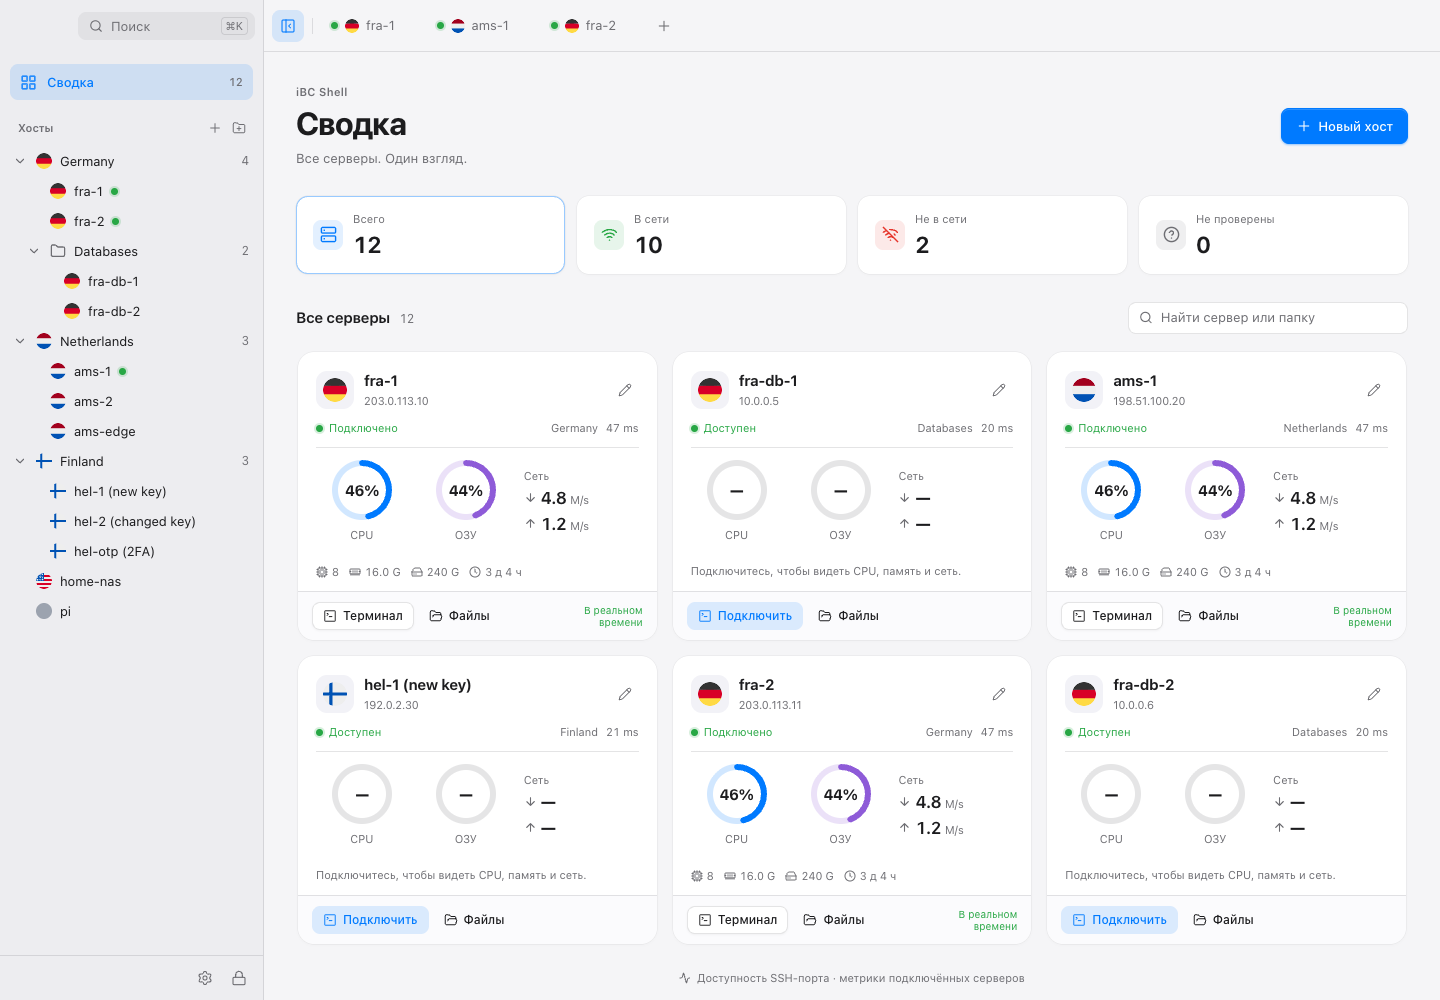
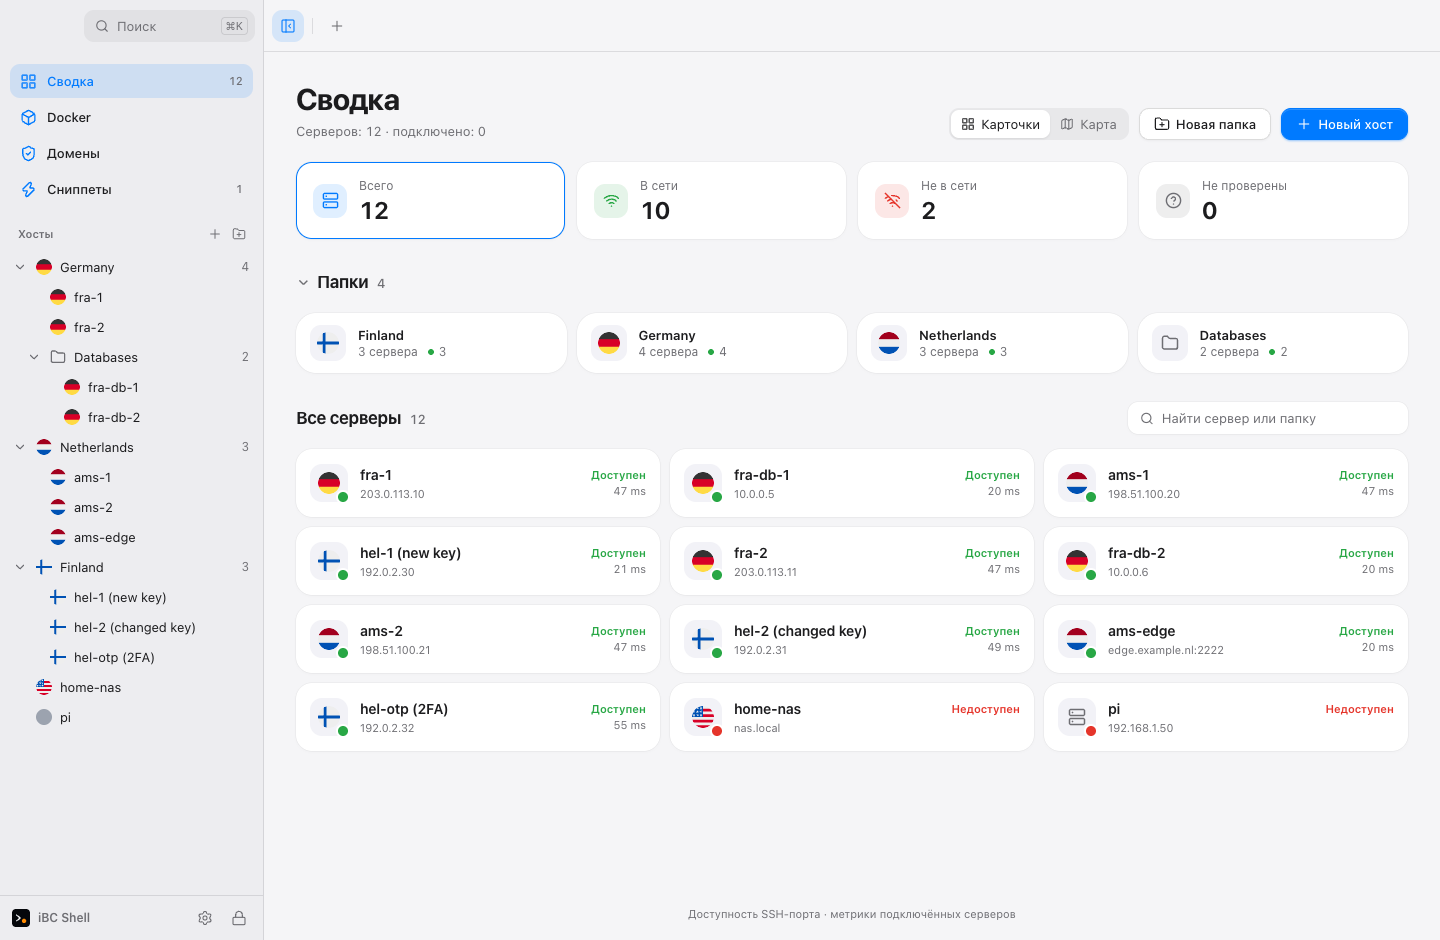
Защита окна от переходов на чужие страницы, урезанные права событий, лицензия MIT, свежие скриншоты и описание новых функций в README

diff --git a/src-tauri/src/window.rs b/src-tauri/src/window.rs
@@ -1,0 +1,60 @@
+//! The main window, created in code so it can be locked to the app's own pages.
+//!
+//! A compromised page (or a link in remote data that slipped through) must not be able to
+//! navigate the webview to a foreign site, where the IPC bridge would then be reachable, nor
+//! open extra windows. Foreign links go through the UI's confirmation and the system browser.
+
+use tauri::webview::WebviewWindowBuilder;
+use tauri::Url;
+
+/// True for the pages the bundled UI is served from (and the dev server in `tauri dev`).
+fn is_app_page(url: &Url) -> bool {
+    match url.scheme() {
+        "tauri" => true,
+        "http" | "https" => {
+            let host = url.host_str();
+            host == Some("tauri.localhost") || (cfg!(dev) && host == Some("localhost"))
+        }
+        _ => false,
+    }
+}
+
+/// Builds the window described in `tauri.conf.json` (`"create": false`) with the guards.
+pub fn create_main(app: &tauri::App) -> Result<(), Box<dyn std::error::Error>> {
+    let Some(cfg) = app
+        .config()
+        .app
+        .windows
+        .iter()
+        .find(|w| w.label == "main")
+        .cloned()
+    else {
+        return Err("main window is not configured".into());
+    };
+    let builder = WebviewWindowBuilder::from_config(app.handle(), &cfg)?
+        .on_navigation(is_app_page);
+    #[cfg(desktop)]
+    let builder = builder.on_new_window(|_, _| tauri::webview::NewWindowResponse::Deny);
+    builder.build()?;
+    Ok(())
+}
+
+#[cfg(test)]
+mod tests {
+    use super::*;
+
+    fn ok(s: &str) -> bool {
+        is_app_page(&Url::parse(s).unwrap())
+    }
+
+    #[test]
+    fn only_own_pages() {
+        assert!(ok("tauri://localhost/index.html"));
+        assert!(ok("http://tauri.localhost/"));
+        assert!(!ok("https://example.com/"));
+        assert!(!ok("http://tauri.localhost.evil.com/"));
+        assert!(!ok("file:///etc/passwd"));
+        assert!(!ok("javascript:alert(1)"));
+        assert!(!ok("data:text/html,x"));
+    }
+}

diff --git a/src-tauri/src/lib.rs b/src-tauri/src/lib.rs
@@ -19,6 +19,7 @@ pub mod tray;
 #[cfg(not(desktop))]
 #[path = "tray_stub.rs"]
 pub mod tray;
+pub mod window;
 
 /// Opens the store in the app data dir and builds [`state::AppState`].
 fn init_state(app: &tauri::AppHandle) -> Result<state::AppState, Box<dyn std::error::Error>> {
@@ -29,11 +30,27 @@ fn init_state(app: &tauri::AppHandle) -> Result<state::AppState, Box<dyn std::er
     Ok(state::AppState::new(store, vault))
 }
 
+/// Release builds drop the panic message (it could carry data from a secret-handling frame);
+/// the location stays for diagnosis. Debug builds keep the default hook.
+fn install_panic_hook() {
+    if cfg!(debug_assertions) {
+        return;
+    }
+    std::panic::set_hook(Box::new(|info| {
+        if let Some(loc) = info.location() {
+            eprintln!("ibc-shell panicked at {}:{}", loc.file(), loc.line());
+        } else {
+            eprintln!("ibc-shell panicked");
+        }
+    }));
+}
+
 /// Builds and runs the Tauri application.
 ///
 /// # Panics
 /// Tauri aborts the process if the runtime cannot start.
 pub fn run() {
+    install_panic_hook();
     let specta = api::builder();
     let typed = specta.invoke_handler();
     let raw: Box<dyn Fn(tauri::ipc::Invoke<tauri::Wry>) -> bool + Send + Sync> =
@@ -61,6 +78,7 @@ pub fn run() {
             autolock::apply_from_store(&st.store, &st.vault);
             autolock::spawn_sweeper(app.handle().clone(), st.vault.clone());
             app.manage(st);
+            window::create_main(app)?;
             Ok(())
         })
         .run(tauri::generate_context!());

diff --git a/crates/ssh/src/docker.rs b/crates/ssh/src/docker.rs
@@ -172,7 +172,8 @@ fn clean_log(s: &str) -> String {
                 let mut params = String::new();
                 for d in chars.by_ref() {
                     if ('@'..='~').contains(&d) {
-                        let sgr = d == 'm' && params.chars().all(|p| p.is_ascii_digit() || p == ';');
+                        let sgr =
+                            d == 'm' && params.chars().all(|p| p.is_ascii_digit() || p == ';');
                         if sgr && params.len() <= 32 {
                             out.push_str("\u{1b}[");
                             out.push_str(&params);
@@ -338,7 +339,10 @@ mod tests {
         assert!(valid_id("a1b2c3d4e5f6"));
         assert!(!valid_id("web; rm -rf /"));
         assert!(!valid_id("abc"));
-        assert_eq!(clean_log("\u{1b}[31mred\u{1b}[0m ok\r\n"), "\u{1b}[31mred\u{1b}[0m ok\n");
+        assert_eq!(
+            clean_log("\u{1b}[31mred\u{1b}[0m ok\r\n"),
+            "\u{1b}[31mred\u{1b}[0m ok\n"
+        );
         assert_eq!(clean_log("\u{1b}[2Jx\u{1b}]0;t\u{7}y"), "x]0;ty");
         assert_eq!(size("1.5KiB"), Some(1536));
     }

diff --git a/src-tauri/src/commands/identity.rs b/src-tauri/src/commands/identity.rs
@@ -168,8 +168,10 @@ fn import_from_path(
     if bytes.len() > MAX_KEY_FILE {
         return Err(ApiError::Validation("key file too large".into()));
     }
-    let pem = String::from_utf8(bytes.to_vec())
-        .map_err(|_| ApiError::Validation("invalid key".into()))?;
+    // `from_utf8` on the borrowed bytes: a failure leaves no unzeroized copy behind.
+    let pem = std::str::from_utf8(&bytes)
+        .map_err(|_| ApiError::Validation("invalid key".into()))?
+        .to_owned();
     let label = path
         .file_name()
         .map_or_else(|| "key".to_owned(), |n| n.to_string_lossy().into_owned());

diff --git a/src-tauri/src/api/dto.rs b/src-tauri/src/api/dto.rs
@@ -4,8 +4,8 @@
 pub use crate::tray::{TrayItem, TrayMenu};
 use ibc_shell_sftp::{ConflictPolicy, TransferId};
 pub use ibc_shell_ssh::{
-    CertInfo, CertReport, Container, CoreSplit, DockerAccess, DockerAction, DockerReport, HostStats, Listener,
-    NetIface, PeerFlow, ProcRow,
+    CertInfo, CertReport, Container, CoreSplit, DockerAccess, DockerAction, DockerReport,
+    HostStats, Listener, NetIface, PeerFlow, ProcRow,
 };
 use ibc_shell_ssh::{ConnectStep, ForwardState, HostKeyInfo, KbdPrompt};
 use ibc_shell_store::{ForwardId, HostId, IdentityId, IdentityKind};

diff --git a/crates/sftp/src/remote.rs b/crates/sftp/src/remote.rs
@@ -46,7 +46,14 @@ pub(crate) fn map_err(e: &CErr) -> SftpError {
                 SftpError::Protocol(format!("{c}: {msg}"))
             }
         },
-        other => SftpError::Protocol(other.to_string().chars().take(160).collect()),
+        other => SftpError::Protocol(
+            other
+                .to_string()
+                .chars()
+                .filter(|c| !c.is_control())
+                .take(160)
+                .collect(),
+        ),
     }
 }
 

diff --git a/README.en.md b/README.en.md
@@ -32,19 +32,59 @@ Nested folders, country flags, a terminal that stays out of your way, and secret
   <img src="docs/brand/screenshots/overview-light.png" alt="iBC Shell — Overview" width="1440">
 </picture>
 
+Overview: folders, server availability, search.
+
+<picture>
+  <source media="(prefers-color-scheme: dark)" srcset="docs/brand/screenshots/status-dark.png">
+  <img src="docs/brand/screenshots/status-light.png" alt="iBC Shell — Server status" width="1440">
+</picture>
+
+Server status: per-core CPU, memory, disk, network, connections.
+
+<picture>
+  <source media="(prefers-color-scheme: dark)" srcset="docs/brand/screenshots/docker-dark.png">
+  <img src="docs/brand/screenshots/docker-light.png" alt="iBC Shell — Docker" width="1440">
+</picture>
+
+Docker across all connected servers: state, ports, load, start, stop, restart.
+
+<picture>
+  <source media="(prefers-color-scheme: dark)" srcset="docs/brand/screenshots/logs-dark.png">
+  <img src="docs/brand/screenshots/logs-light.png" alt="iBC Shell — Container logs" width="1440">
+</picture>
+
+Container logs in their own colours, with wrapped lines.
+
+<picture>
+  <source media="(prefers-color-scheme: dark)" srcset="docs/brand/screenshots/domains-dark.png">
+  <img src="docs/brand/screenshots/domains-light.png" alt="iBC Shell — Domains" width="1440">
+</picture>
+
+SSL certificate expiry for the domains on every server.
+
 Demo mode: sample servers and metrics.
+
+## What's new
+
+- **Docker.** A server's containers with state, ports and load; start, stop and restart (stop and restart ask first); logs. The Docker tab shows every connected server at once.
+- **SSL certificates.** Finds Let's Encrypt, nginx, Apache and Caddy certificates, shows expiry and warns ahead. The Domains tab gathers them from all servers.
+- **macOS menu-bar icon.** A short summary of your servers, one click to jump to a server. Can be turned off in settings.
+- **Per-core CPU load** split into user, system, nice, iowait and steal.
+- **Snippets without opening a server.** A tab of their own, run on one or several servers.
+- **Folders on the overview**, a folder filter, connect a whole folder.
+- **Everything over the SSH connection that is already open.** Nothing is installed on the server and no ports are opened.
 
 ## Download
 
 Installers are on the [Releases page](https://github.com/dramaformama/ibc-shell/releases/latest), with a `SHA256SUMS.txt` next to them to verify the download.
 
-| Platform             | File                         | State             |
-| -------------------- | ---------------------------- | ----------------- |
-| macOS, Apple Silicon | `iBC Shell_…_aarch64.dmg`    | built in CI       |
-| macOS, Intel         | `iBC Shell_…_x64.dmg`        | built in CI       |
-| Windows 10/11        | `iBC Shell_…_x64-setup.exe`  | built in CI       |
-| Linux                | `.AppImage` and `.deb`       | built in CI       |
-| iOS, Android         | —                            | planned (Phase 4) |
+| Platform             | File                        | State             |
+| -------------------- | --------------------------- | ----------------- |
+| macOS, Apple Silicon | `iBC Shell_…_aarch64.dmg`   | built in CI       |
+| macOS, Intel         | `iBC Shell_…_x64.dmg`       | built in CI       |
+| Windows 10/11        | `iBC Shell_…_x64-setup.exe` | built in CI       |
+| Linux                | `.AppImage` and `.deb`      | built in CI       |
+| iOS, Android         | —                           | planned (Phase 4) |
 
 The builds are not signed with a paid certificate, so the system warns on first launch. That is expected; check the sum from `SHA256SUMS.txt`.
 
@@ -56,16 +96,17 @@ A release is made by a tag: `git tag v0.1.0 && git push origin v0.1.0`. The [wor
 
 ## What works today
 
-| Area                                                                              | State                                      |
-| --------------------------------------------------------------------------------- | ------------------------------------------ |
-| Encrypted vault (Argon2id + XChaCha20-Poly1305), host store, folder tree          | done, tested                               |
-| SSH client: password, key, keyboard-interactive, host-key checks, jump hosts      | done, tested against real OpenSSH          |
-| SFTP engine: queue, resume, pause, conflict policies, remote-to-remote            | done, tested                               |
-| Terminal UI (xterm.js tabs, search, paste safety)                                 | done, not yet run against the real backend |
-| SFTP UI (two panes, transfer queue)                                               | done, not yet run against the real backend |
-| App shell wiring (Tauri commands)                                                 | in progress                                |
-| Port forwarding, `ssh_config` import, key manager, split panes, snippets, backups | planned (Phase 3)                          |
-| Mobile                                                                            | planned (Phase 4)                          |
+| Area                                                                           | State                        |
+| ------------------------------------------------------------------------------ | ---------------------------- |
+| Encrypted vault (Argon2id + XChaCha20-Poly1305), host store, folder tree       | done, tested                 |
+| SSH client: password, key, keyboard-interactive, host-key checks, jump hosts   | done, tested against OpenSSH |
+| SFTP engine: queue, resume, pause, conflict policies, remote-to-remote         | done, tested                 |
+| Terminal, files, overview, server status, Docker, SSL, snippets, menu-bar icon | done, working in the app     |
+| Installers for macOS, Windows, Linux                                           | built in CI                  |
+| Port forwarding, `ssh_config` import, key manager, split panes, backups        | planned (Phase 3)            |
+| Mobile                                                                         | planned (Phase 4)            |
+
+Tested on a Mac. Docker and SSL are checked on demo data, not yet on a real server. The Windows and Linux builds have not been run on real machines.
 
 Nothing here is benchmarked against other clients yet. Numbers will go in `docs/bench.md` once they are measured.
 
@@ -105,4 +146,4 @@ Details: [docs/contracts/security.md](docs/contracts/security.md).
 
 ## License
 
-MIT, as declared in `Cargo.toml`.
+MIT, see [LICENSE](LICENSE).

diff --git a/docs/security-review.md b/docs/security-review.md
@@ -8,16 +8,16 @@ Scope: `src-tauri/`, `crates/ssh`, `crates/sftp`, `crates/vault`, UI IPC surface
 | 2 | High | fixed | `vault/idle.rs`, `lib.rs`, `src-tauri/autolock.rs` | Auto-lock was a UI timer only. Vault now enforces the idle deadline on every DEK use (zeroize + `Locked`), sweeper emits `vault://locked`, setting `security.autolock_minutes` applied at start and on `settings_set`. |
 | 3 | Medium | fixed | `ssh/verify.rs`, `store/known_hosts.rs`, `connect.rs` | TOFU race: a key accepted in a slow prompt was upserted over a key stored meanwhile (silent key replacement). Now re-check after the prompt + `known_host_add_new` never replaces → hard block. |
 | 4 | Low | fixed | `ssh/verify.rs` | Server auth banner kept raw (control chars, unbounded). Now plain text, ≤ 4096 chars. |
-| 5 | Medium | open | `state.rs`, `session_task.rs` | Shell input queue unbounded; a hostile server that never opens its window stalls `shell.write` so `session_close` cannot interrupt it (leaked task/connection). Fix: byte-bounded queue + close signal raced against the write. |
-| 6 | Medium | open | `tauri.conf.json`, `lib.rs` | No navigation / new-window guard. Fix: create the window in `setup` with `on_navigation` (app origins only) and `on_new_window → Deny`. |
+| 5 | Medium | fixed | `state.rs`, `session_task.rs` | Shell input queue unbounded; a hostile server that never opens its window stalls `shell.write` so `session_close` cannot interrupt it (leaked task/connection). Fix: byte-bounded queue + close signal raced against the write. Byte-bounded queue (1 MiB) and an out-of-band close signal are in `state.rs`. |
+| 6 | Medium | fixed | `tauri.conf.json`, `lib.rs` | No navigation / new-window guard. Fix: create the window in `setup` with `on_navigation` (app origins only) and `on_new_window → Deny`. Window is created in `window.rs` with `on_navigation` (app pages only) and `on_new_window → Deny`. |
 | 7 | Medium | open | `sftp/remote.rs`, `scan.rs` | Hostile server can return endless `readdir` batches (memory DoS in `list` / recursive scan). Fix: cap entries per listing and per scan. |
 | 8 | Low | open | `sftp/scan.rs` | Names unique only case-sensitively: on case-insensitive local FS two remote files can share one `.tlpart` in parallel. Fix: case-folded `unique()` for local destinations. |
 | 9 | Low | open | `sftp/job.rs` | `ResumeIfSmaller` on a non-prefix existing file overwrites it after the 1 MiB tail check fails; resume integrity only checks the last 1 MiB. |
-| 10 | Low | open | `state.rs` | `ShellCmd` derives `Debug` incl. keystroke bytes (typed passwords). Not logged today; make Debug redacted. |
-| 11 | Low | open | `lib.rs` | security.md's release panic hook (strip messages) is not installed. |
-| 12 | Low | open | `capabilities/default.json` | `core:event:default` also grants `emit`/`emit_to`; `allow-listen` + `allow-unlisten` suffice (drag-drop, `vault://locked`). |
-| 13 | Low | open | `sftp/remote.rs` `map_err` | Non-status russh-sftp errors are not control-char filtered (status messages are). |
-| 14 | Info | open | `identity.rs` | Non-UTF-8 key file: `FromUtf8Error` buffer dropped without zeroize. |
+| 10 | Low | fixed | `state.rs` | `ShellCmd` derives `Debug` incl. keystroke bytes (typed passwords). Not logged today; make Debug redacted. `WriteBytes` has a redacted `Debug`. |
+| 11 | Low | fixed | `lib.rs` | security.md's release panic hook (strip messages) is not installed. Release builds install a hook that prints only the location. |
+| 12 | Low | fixed | `capabilities/default.json` | `core:event:default` also grants `emit`/`emit_to`; `allow-listen` + `allow-unlisten` suffice (drag-drop, `vault://locked`). Capability now lists `allow-listen` and `allow-unlisten`. |
+| 13 | Low | fixed | `sftp/remote.rs` `map_err` | Non-status russh-sftp errors are not control-char filtered (status messages are). Control characters are filtered. |
+| 14 | Info | fixed | `identity.rs` | Non-UTF-8 key file: `FromUtf8Error` buffer dropped without zeroize. `from_utf8` on the borrowed bytes, no unzeroized copy. |
 
 Checked, no issue: secrets never in IPC responses / error strings (fixed strings, IO reduced to kind);
 `AuthMethod`, `Vault`, `SecretInput`, identity inputs have redacted `Debug`; no `unwrap/expect/panic`
